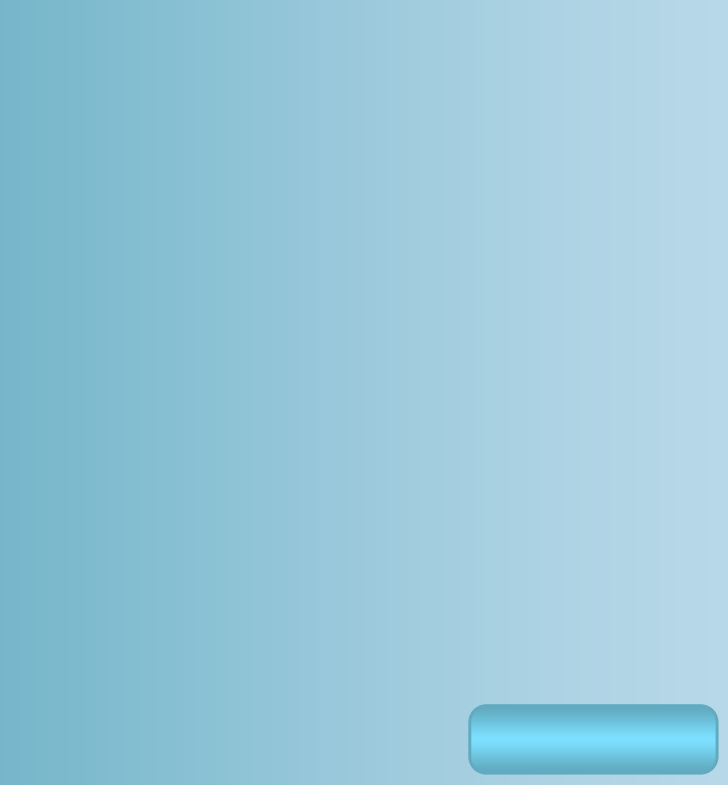
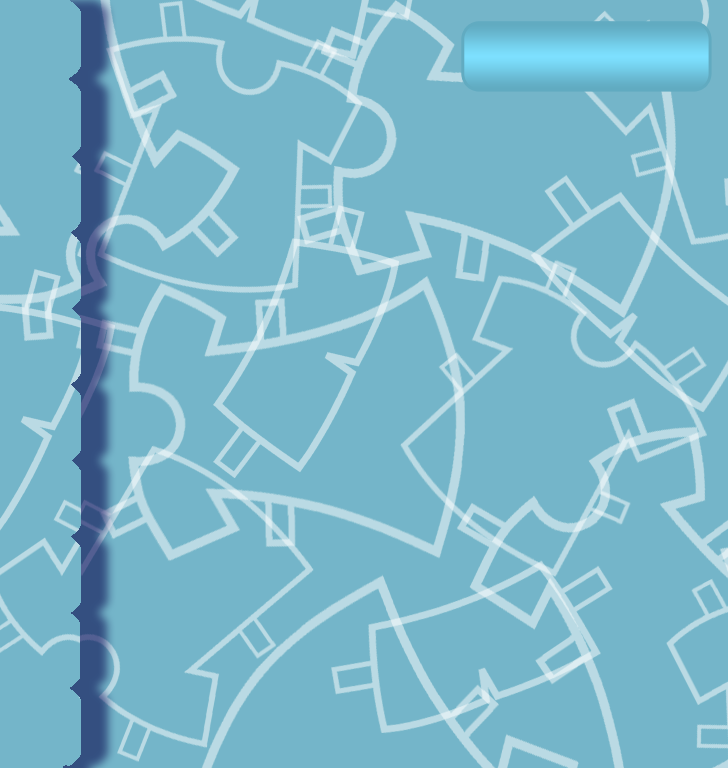
Modificada la diferenciacion de seccion en el editor de avatares

diff --git a/gg/GG/isoview/avatareditor.py b/gg/GG/isoview/avatareditor.py
@@ -582,12 +582,12 @@ class AvatarEditor:
 
   def paintButtons(self):
     buttonOK = GG.utils.OcempImageButtonTransparent(os.path.join(GG.utils.PATH_EDITOR_INTERFACE, "ok_button.png"))
-    buttonOK.topleft = [780, 710]
+    buttonOK.topleft = [770, 30]
     buttonOK.connect_signal(ocempgui.widgets.Constants.SIG_CLICKED, self.changeConfiguration)
     self.window.add_child(buttonOK)
      
     buttonCancel = GG.utils.OcempImageButtonTransparent(os.path.join(GG.utils.PATH_EDITOR_INTERFACE, "cancel_button.png"))
-    buttonCancel.topleft = [900, 710]
+    buttonCancel.topleft = [890, 30]
     buttonCancel.connect_signal(ocempgui.widgets.Constants.SIG_CLICKED, self.closeConfiguration)
     self.window.add_child(buttonCancel)
 
